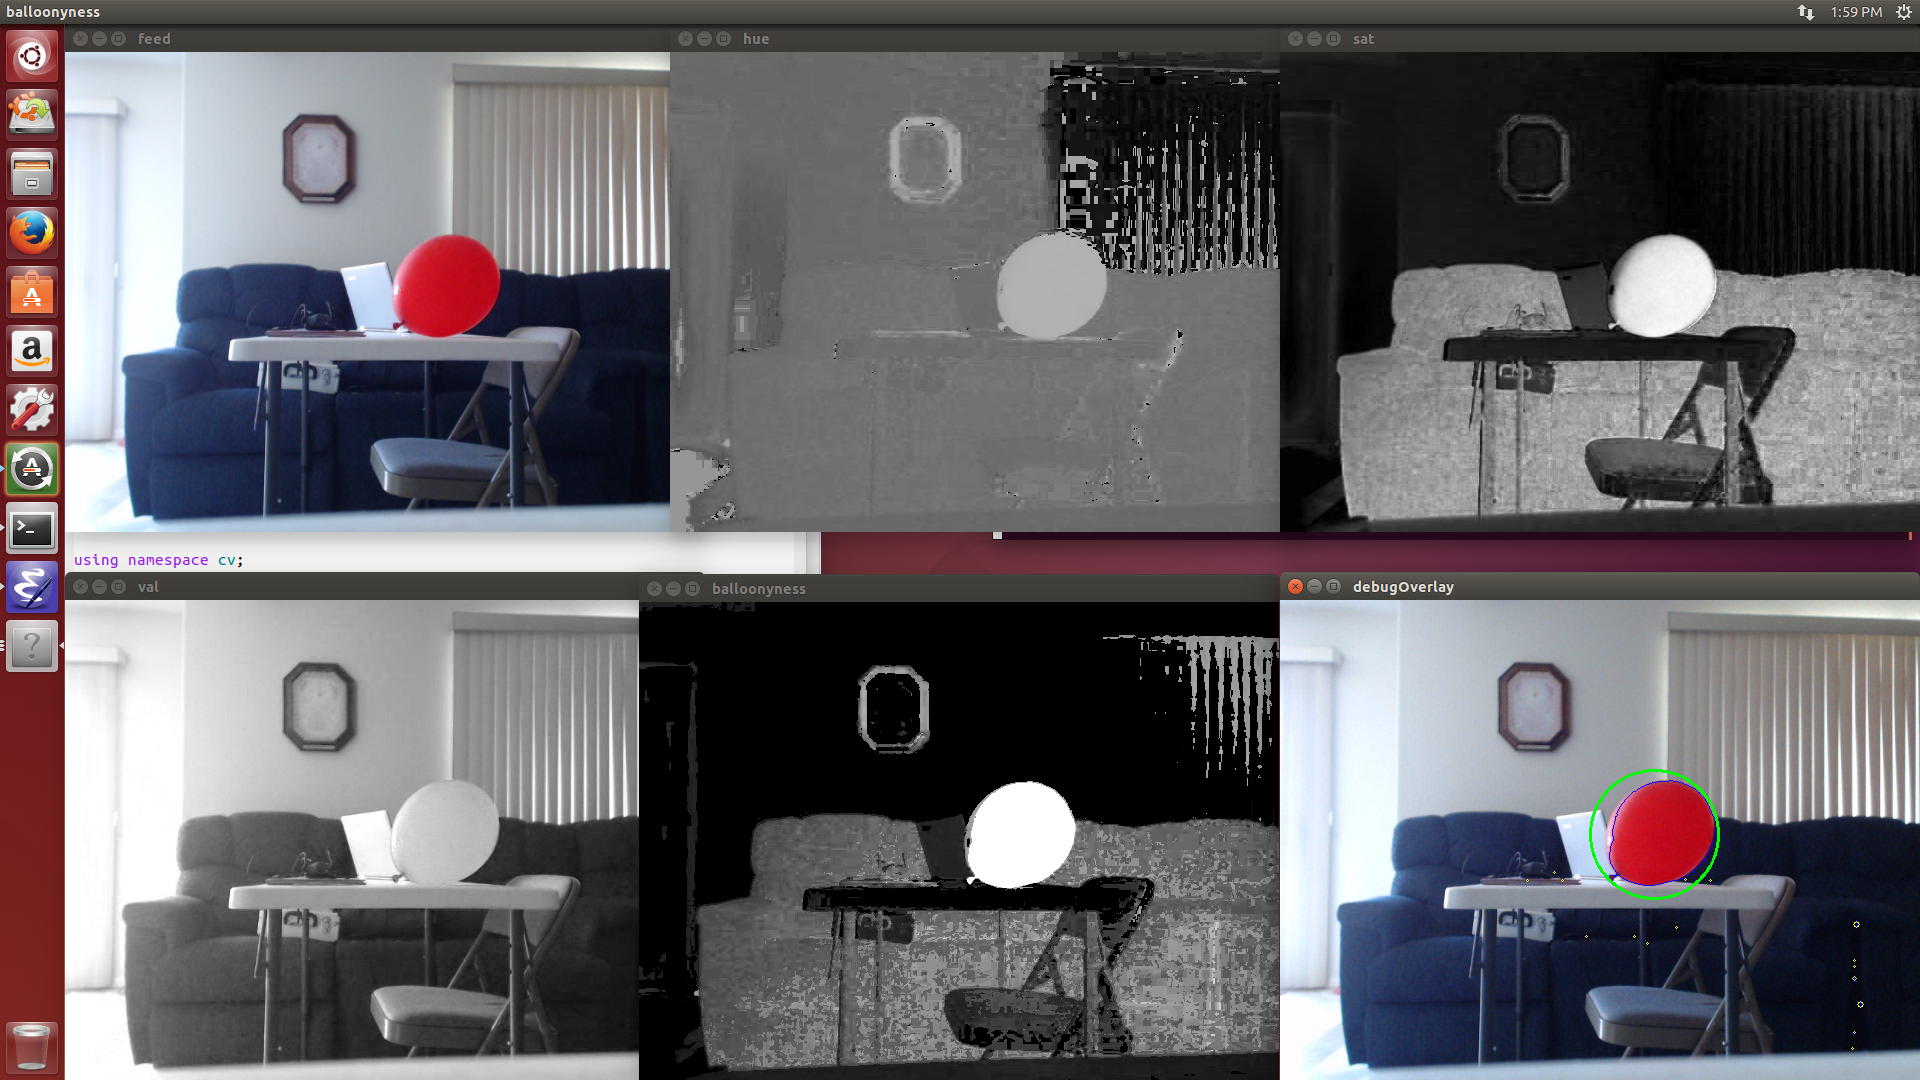
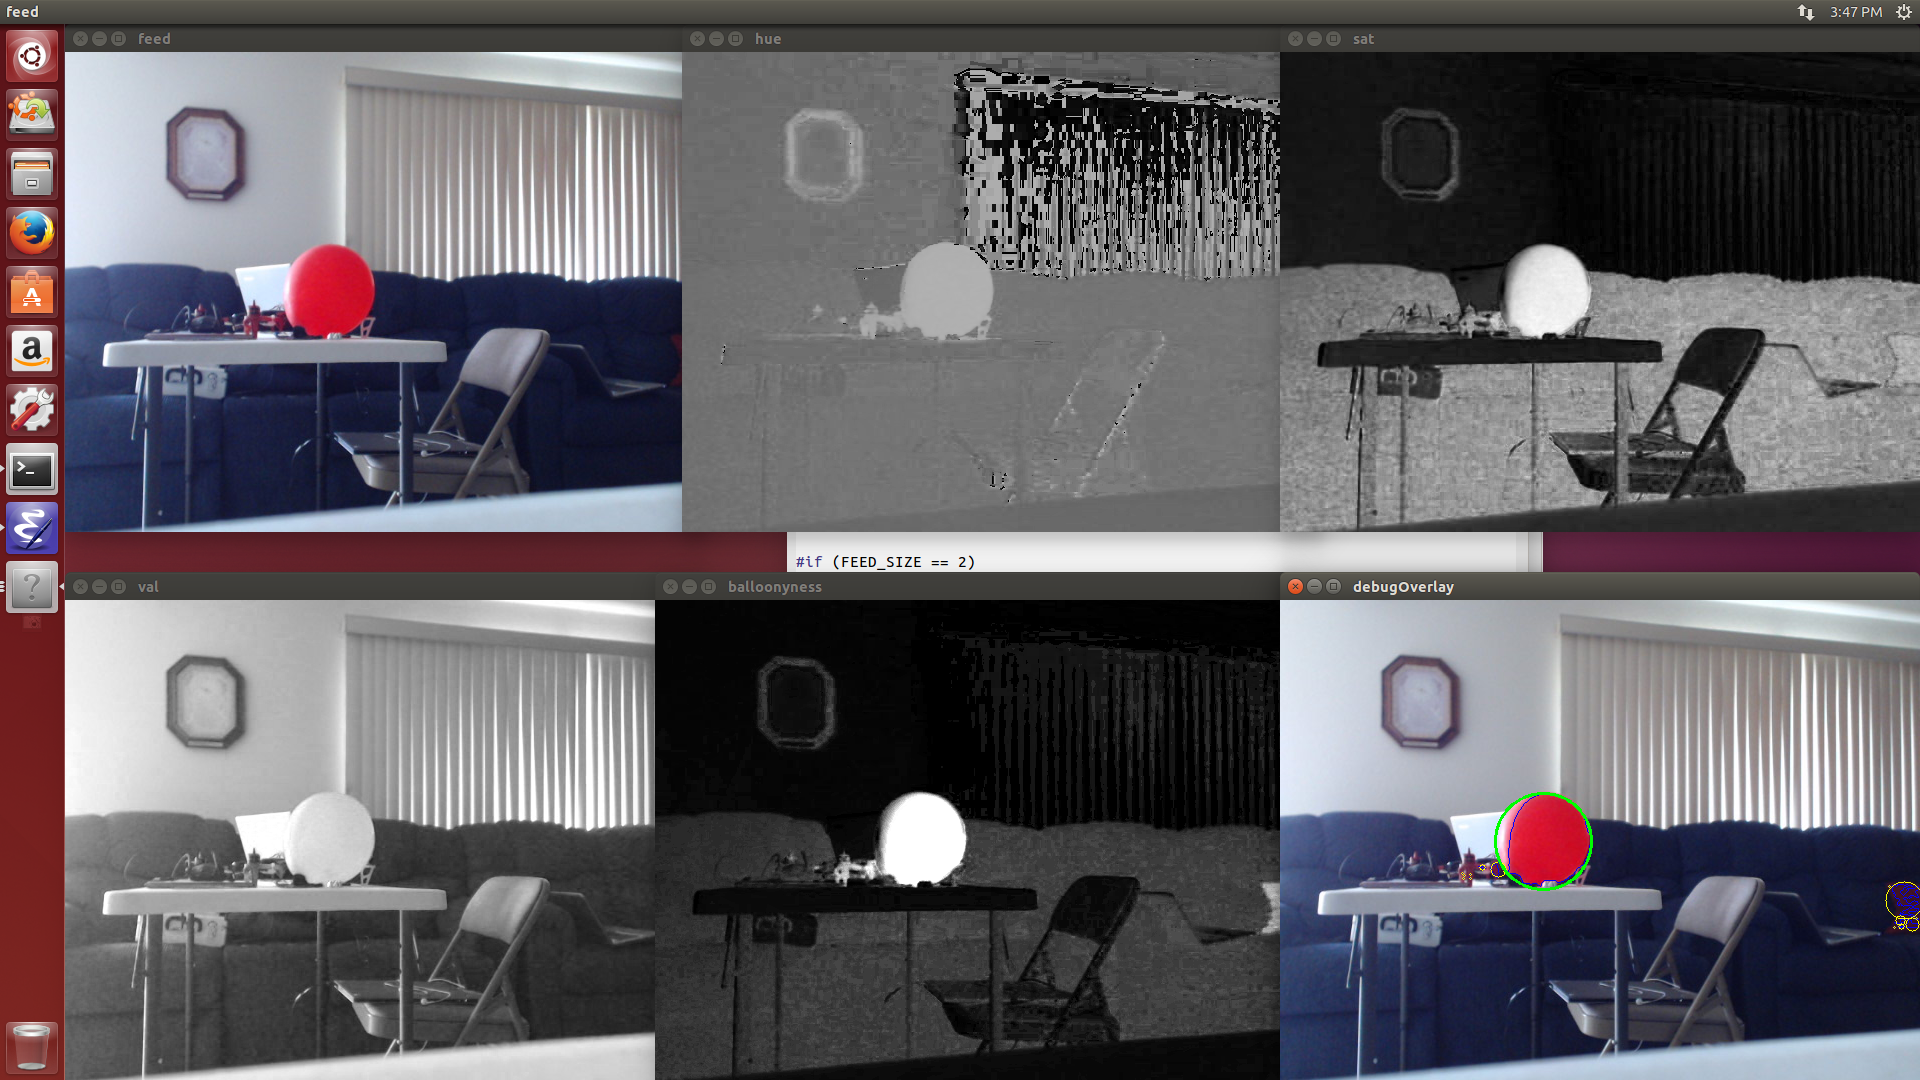
fixed plane scaling bug and updated screenshot

diff --git a/Main.cpp b/Main.cpp
@@ -9,10 +9,10 @@ using namespace cv;
 
 #define FEED_SIZE 4
 #define PER_FRAME_TIME_LOGGING 0
-#define SHOW_FEED_WINDOW 0
-#define SHOW_OTHER_WINDOWS 0
+#define SHOW_FEED_WINDOW 1
+#define SHOW_OTHER_WINDOWS 1
 #define SHOW_OUTPUT_WINDOW 1
-#define DRAW_DEBUG_DATA 0
+#define DRAW_DEBUG_DATA 1
 
 #if (FEED_SIZE == 1)
 
@@ -139,9 +139,9 @@ void processFrame(gpu::GpuMat &hue, gpu::GpuMat &sat, gpu::GpuMat &balloonyness,
   gettimeofday(&timea, NULL);
 
   gpu::absdiff(hue, Scalar(90), huered);
-  gpu::divide(huered, Scalar(16), scalehuered);
-  gpu::divide(sat, Scalar(64), scalesat);
-  gpu::multiply(huered, Scalar(2), scalehuered);
+  gpu::divide(huered, Scalar(4), scalehuered);
+  gpu::divide(sat, Scalar(16), scalesat);
+  //gpu::multiply(huered, Scalar(2), scalehuered);
   gpu::multiply(scalehuered, scalesat, balloonyness);
   gpu::threshold(balloonyness, thresh, 200, 255, THRESH_BINARY);
   thresh.download(thresh_host);
